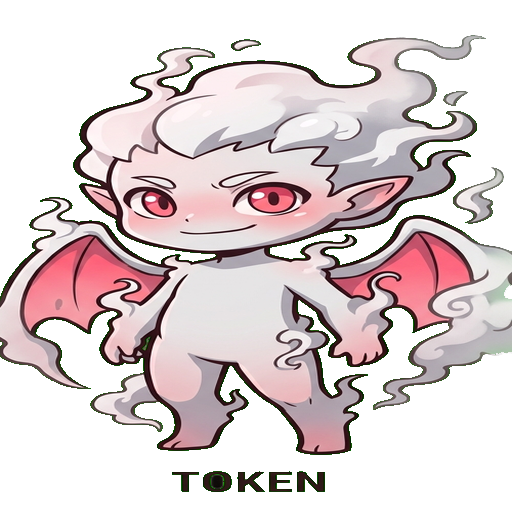
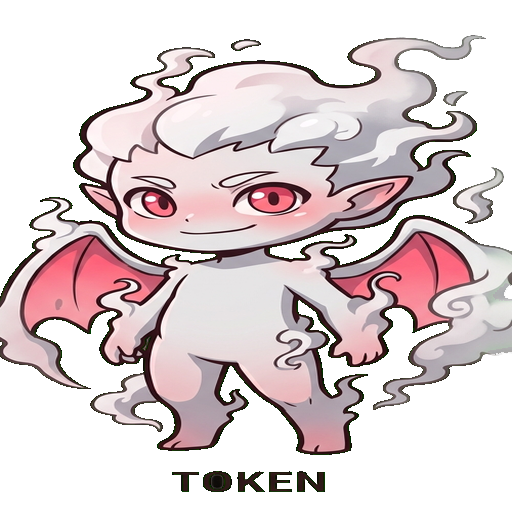
Enhance green spill desaturation and remove green halos from steam/ice/fog monster art

Changed region(s): [[0.9688, 0.5625, 1.0, 0.5938]]

diff --git a/web/src/art-registry.ts b/web/src/art-registry.ts
@@ -7,28 +7,30 @@
 
 /** Combatants with both a `portrait-<id>.webp` and a `token-<id>.webp`. */
 export const HAS_ART = new Set<string>([
-  'acolyte', 'air-elemental', 'animated-armor', 'assassin', 'bandit',
+  'acolyte', 'air-elemental', 'animated-armor', 'assassin', 'azer', 'bandit',
   'bandit-captain', 'banshee', 'barbed-devil', 'bearded-devil', 'berserker',
   'black-wyrmling', 'blue-wyrmling', 'brown-bear', 'bugbear', 'chain-devil',
   'cleric', 'cockatrice', 'cult-fanatic', 'dire-wolf', 'dragonborn-paladin',
   'dragonborn-sorcerer', 'dretch', 'dryad', 'dust-mephit', 'dwarf-berserker',
   'dwarf-cleric', 'earth-elemental', 'elephant', 'elf-archer', 'elf-wizard',
-  'ettin', 'fighter', 'fire-elemental', 'gargoyle', 'ghast', 'ghost',
-  'ghoul', 'giant-ape', 'giant-badger', 'giant-boar',
-  'giant-constrictor-snake', 'giant-crocodile', 'giant-hyena',
+  'ettin', 'fighter', 'fire-elemental', 'fire-giant', 'frost-giant',
+  'gargoyle', 'ghast', 'ghost', 'ghoul', 'giant-ape', 'giant-badger',
+  'giant-boar', 'giant-constrictor-snake', 'giant-crocodile', 'giant-hyena',
   'giant-scorpion', 'giant-spider', 'giant-toad', 'glabrezu', 'gladiator',
   'gnoll', 'gnome-bard', 'gnome-warden', 'goblin-boss', 'goblin-warrior',
   'gorgon', 'green-hag', 'green-wyrmling', 'guard', 'halfling-priest',
   'halfling-rogue', 'halfling-warrior', 'harpy', 'hell-hound', 'hezrou',
-  'horned-devil', 'human-bard', 'ice-mephit', 'imp', 'knight', 'kobold',
-  'lizardfolk', 'mage', 'mammoth', 'manticore', 'minotaur', 'mud-mephit',
+  'hill-giant', 'horned-devil', 'human-bard', 'ice-mephit', 'imp',
+  'invisible-stalker', 'knight', 'kobold', 'lizardfolk', 'mage',
+  'magma-mephit', 'magmin', 'mammoth', 'manticore', 'minotaur', 'mud-mephit',
   'mummy', 'night-hag', 'ogre', 'ogre-mage', 'orc', 'orc-barbarian',
   'orc-shaman', 'owlbear', 'paladin', 'priest', 'quasit', 'ranger',
-  'red-wyrmling', 'rogue', 'satyr', 'scout', 'shadow', 'skeleton',
-  'smoke-mephit', 'specter', 'sprite', 'spy', 'succubus', 'tiefling-knight',
-  'tiefling-warlock', 'tyrannosaurus', 'unicorn', 'vampire-spawn', 'veteran',
-  'vrock', 'water-elemental', 'white-wyrmling', 'wight', 'will-o-wisp',
-  'wizard', 'wolf', 'worg', 'wraith', 'zombie'
+  'red-wyrmling', 'rogue', 'salamander', 'satyr', 'scout', 'shadow',
+  'skeleton', 'smoke-mephit', 'specter', 'sprite', 'spy', 'steam-mephit',
+  'stone-giant', 'succubus', 'tiefling-knight', 'tiefling-warlock', 'troll',
+  'tyrannosaurus', 'unicorn', 'vampire-spawn', 'veteran', 'vrock',
+  'water-elemental', 'white-wyrmling', 'wight', 'will-o-wisp', 'wizard',
+  'wolf', 'worg', 'wraith', 'wyvern', 'young-white', 'zombie'
 ]);
 
 /** Adventure NPC archetypes (`portrait-npc-<id>.webp`) — portrait only. */

diff --git a/art/slice_portraits.py b/art/slice_portraits.py
@@ -82,10 +82,10 @@ def remove_greenscreen(img: Image.Image) -> Image.Image:
                     new_g = int((r + b) / 2)
                     pixels[x, y] = (r, new_g, b, alpha)
             else:
-                # Character interior pixel: preserve completely, only suppress minor green fringe spill if any
+                # Character interior pixel: preserve completely, suppress green spill halo if any
                 r, g, b, a = pixels[x, y]
-                if g > 150 and g > r * 1.3 and g > b * 1.3:
-                    # Minor edge fringe spill
+                if g > 70 and g > r * 1.08 and g > b * 1.08:
+                    # Spill desaturation for green tinted edges/steam
                     new_g = int((r + b) / 2)
                     pixels[x, y] = (r, new_g, b, a)
 
